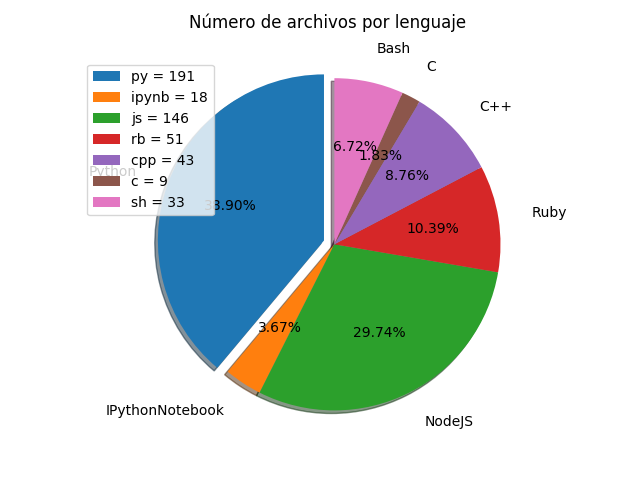
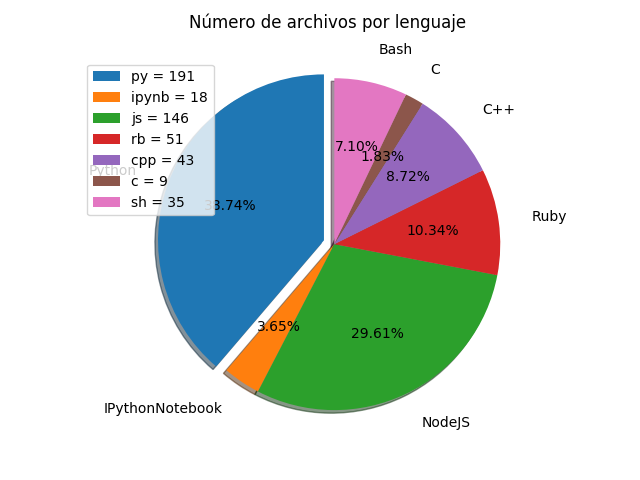
Import libraries in Bash example added [ci skip]

diff --git a/README.md b/README.md
@@ -1,4 +1,4 @@
-[![Build Status](https://travis-ci.org/mondeja/fullstack.svg?branch=master)](https://travis-ci.org/mondeja/fullstack) [![Binder](https://mybinder.org/badge.svg)](https://mybinder.org/v2/gh/mondeja/fullstack/master) [![Links down](https://img.shields.io/badge/Links_down-7-red.svg)](https://github.com/mondeja/fullstack/blob/master/metadata/assets/data/urls_broken.json)
+[![Build Status](https://travis-ci.org/mondeja/fullstack.svg?branch=master)](https://travis-ci.org/mondeja/fullstack) [![Binder](https://mybinder.org/badge.svg)](https://mybinder.org/v2/gh/mondeja/fullstack/master) [![Links down](https://img.shields.io/badge/Links_down-8-red.svg)](https://github.com/mondeja/fullstack/blob/master/metadata/assets/data/urls_broken.json)
 
 ## FULLSTACK
 Referencia de programación en español backend + frontend. Lenguajes: Python3/JupyterNotebook, Javascript/NodeJS, Ruby, C++, Bash, Git, HTML5, LaTeX, Sass, JQuery, Bootstrap, Jade, Material Design y Adobe Illustrator.
